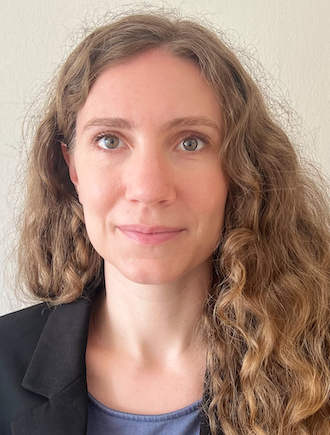
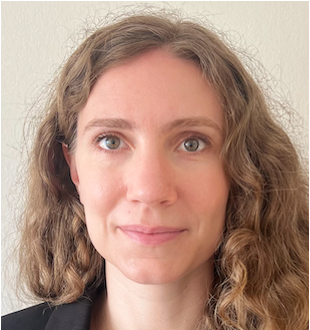
Built site for gh-pages

diff --git a/workshops.html b/workshops.html
@@ -189,7 +189,7 @@ ul.task-list li input[type="checkbox"] {
 <p>WORKSHOP</p>
 </div>
 <div class="speaker-imgs">
-<p><img src="images/w1-1-rich-hanna.jpg" class="img-fluid"></p>
+<p><img src="images/w1-1-rich-hanna.png" class="img-fluid"></p>
 </div>
 </div>
 <div class="card-right">
@@ -366,8 +366,7 @@ ul.task-list li input[type="checkbox"] {
 <p>PANEL</p>
 </div>
 <div class="speaker-imgs">
-<!-- ![](images/w7-1-raymond-balise.jpg) -->
-<p><img src="images/w1-1-rich-hanna.jpg" class="img-fluid"></p>
+<p><img src="images/w7-1-raymond-balise.jpg" class="img-fluid"> <img src="images/w1-1-rich-hanna.png" class="img-fluid"></p>
 </div>
 </div>
 <div class="card-right">
